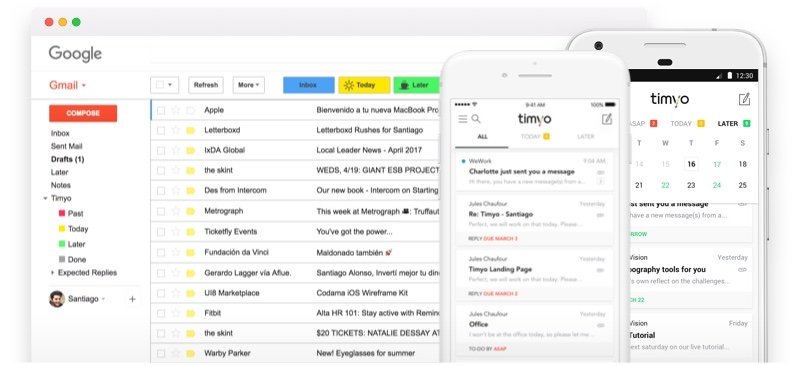
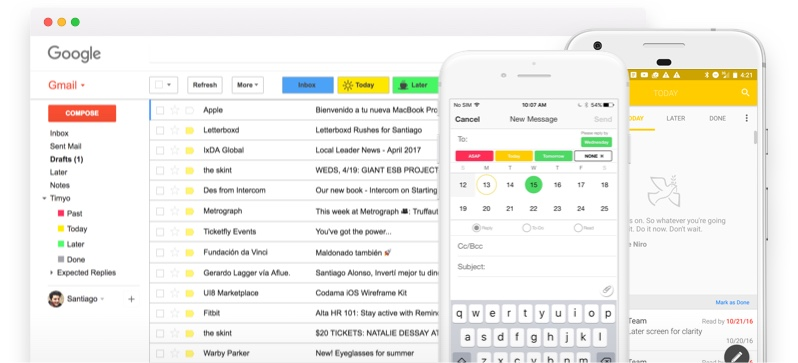
New device assets

diff --git a/public/assets/styles/_homepage.less b/public/assets/styles/_homepage.less
@@ -310,10 +310,10 @@ main.home-page {
     @media screen and (min-width: @break-md-up) {
       display: block;
       background: url('/assets/images/timyo_all_screens.jpg') no-repeat;
-      max-height: 366px;
+      max-height: 363px;
       height: 100%;
       width: 100%;
-      max-width: 799px;
+      max-width: 782px;
       background-size: 100% auto;
       margin: 10px auto;
       padding-bottom: 37%;
